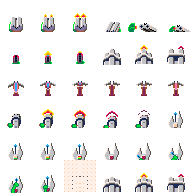
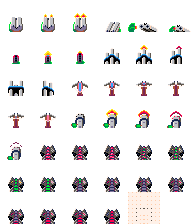
Better trishot and ballista sprites

diff --git a/src/lib-game/include/core/EntityDefinitions.hpp b/src/lib-game/include/core/EntityDefinitions.hpp
@@ -213,17 +213,22 @@ const static inline auto ENTITY_PROPERTIES =
                                   .clip = { { HUD_TrishotFA,
                                               5,
                                               ScriptId::FireBullet },
-                                            { HUD_TrishotFB, 10 },
+                                            { HUD_TrishotFB, 5 },
+                                            { HUD_TrishotFC, 5 },
+                                            { HUD_TrishotFD, 5 },
                                             { HUD_TrishotFA,
                                               5,
                                               ScriptId::FireBullet },
-                                            { HUD_TrishotFB, 10 },
+                                            { HUD_TrishotFB, 5 },
+                                            { HUD_TrishotFC, 5 },
+                                            { HUD_TrishotFD, 5 },
                                             { HUD_TrishotFA,
                                               5,
                                               ScriptId::FireBullet },
-                                            { HUD_TrishotFB, 10 },
-                                            { HUD_TrishotA,
-                                              10,
+                                            { HUD_TrishotFB, 5 },
+                                            { HUD_TrishotFC, 5 },
+                                            { HUD_TrishotFD,
+                                              5,
                                               ScriptId::ReleaseTrigger } },
                                   .transition = AnimationStateId::Idle } } } },
         },

diff --git a/src/lib-game/include/core/Enums.hpp b/src/lib-game/include/core/Enums.hpp
@@ -127,6 +127,8 @@ enum class SpriteId : std::uint8_t
     HUD_TrishotA,
     HUD_TrishotFA,
     HUD_TrishotFB,
+    HUD_TrishotFC,
+    HUD_TrishotFD,
     HUD_CrossbowA,
     HUD_CrossbowFA,
     HUD_CrossbowFB,
@@ -139,14 +141,20 @@ enum class SpriteId : std::uint8_t
     HUD_LauncherFC,
     HUD_LauncherFD,
     HUD_BallistaA,
+    HUD_BallistaB,
+    HUD_BallistaC,
     HUD_BallistaFA,
     HUD_BallistaFB,
     HUD_BallistaFC,
     HUD_BallistaFD,
+    HUD_BallistaFE,
+    HUD_BallistaFF,
+    HUD_BallistaFG,
     HUD_BallistaRA,
     HUD_BallistaRB,
     HUD_BallistaRC,
     HUD_BallistaRD,
+    HUD_BallistaRE,
 };
 
 enum class EntityType
